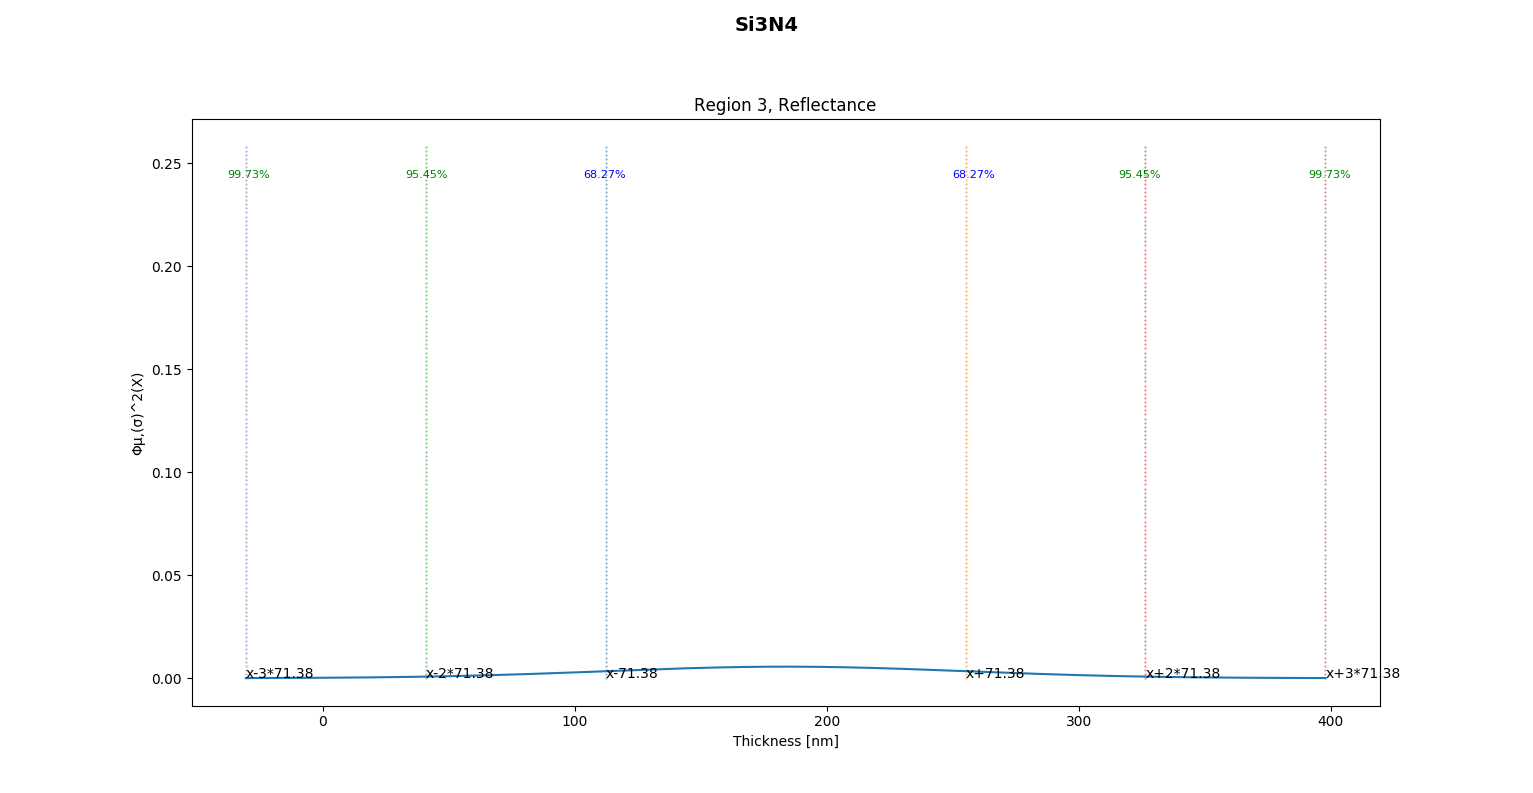
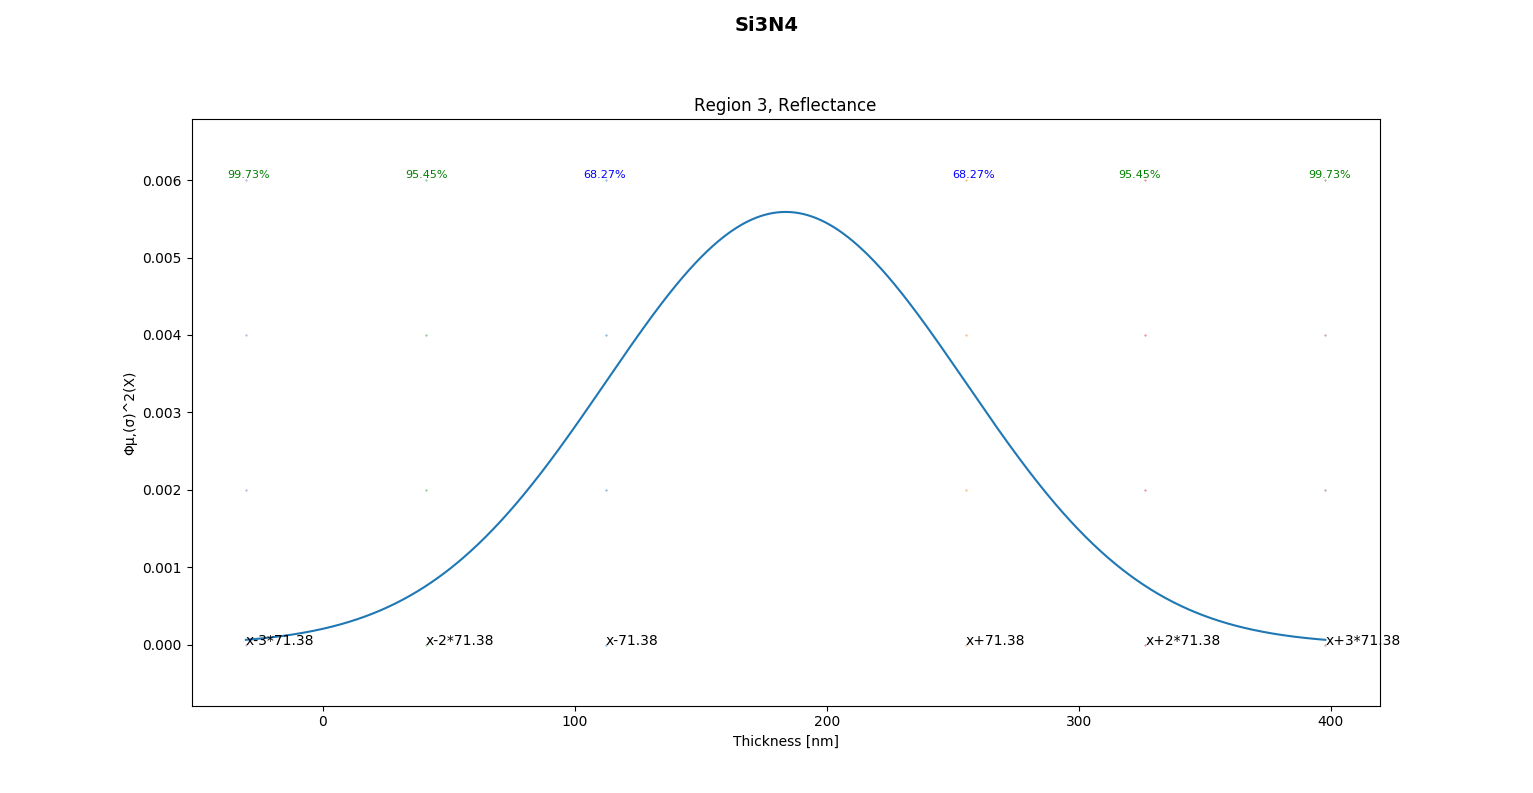
changed pictures

diff --git a/excel_read.py b/excel_read.py
@@ -108,13 +108,14 @@ def norm_dist_calc(meas_thick, layer_name, info): #norm_dist_calc(array[], name 
 
 	for i in range(0,260,2):
 		j = i/1000
-		average_minus_68.append(average_minus_s) #[xyz, xyz, xyz.... ,xyz]
-		average_plus_68.append(average_plus_s)  #[xyz, xyz, xyz.... ,xyz]
-		average_minus_95.append(average_minus_2s) #[xyz, xyz, xyz.... ,xyz]
-		average_plus_95.append(average_plus_2s) #[xyz, xyz, xyz.... ,xyz]
-		average_minus_99.append(average_minus_3s) #[xyz, xyz, xyz.... ,xyz]
-		average_plus_99.append(average_plus_3s) #[xyz, xyz, xyz.... ,xyz]
-		moufa.append(j) #[0.00, 0.02, 0.04.... ,0.25]
+		if(j<=0.006):	
+			average_minus_68.append(average_minus_s) #[xyz, xyz, xyz.... ,xyz]
+			average_plus_68.append(average_plus_s)  #[xyz, xyz, xyz.... ,xyz]
+			average_minus_95.append(average_minus_2s) #[xyz, xyz, xyz.... ,xyz]
+			average_plus_95.append(average_plus_2s) #[xyz, xyz, xyz.... ,xyz]
+			average_minus_99.append(average_minus_3s) #[xyz, xyz, xyz.... ,xyz]
+			average_plus_99.append(average_plus_3s) #[xyz, xyz, xyz.... ,xyz]	
+			moufa.append(j) #[0.00, 0.02, 0.04.... ,0.25]
 
 	#title and subtitle
 	fig = plt.figure()
@@ -151,7 +152,6 @@ def norm_dist_calc(meas_thick, layer_name, info): #norm_dist_calc(array[], name 
 	ax.annotate("x+" +str(s_round), (average_plus_s, 0))
 	ax.annotate("x+2*" +str(s_round), (average_plus_2s, 0))
 	ax.annotate("x+3*" +str(s_round), (average_plus_3s, 0))
-
 
 	#Vertical lines for each average +- σ*n
 	#scatter average - 68
